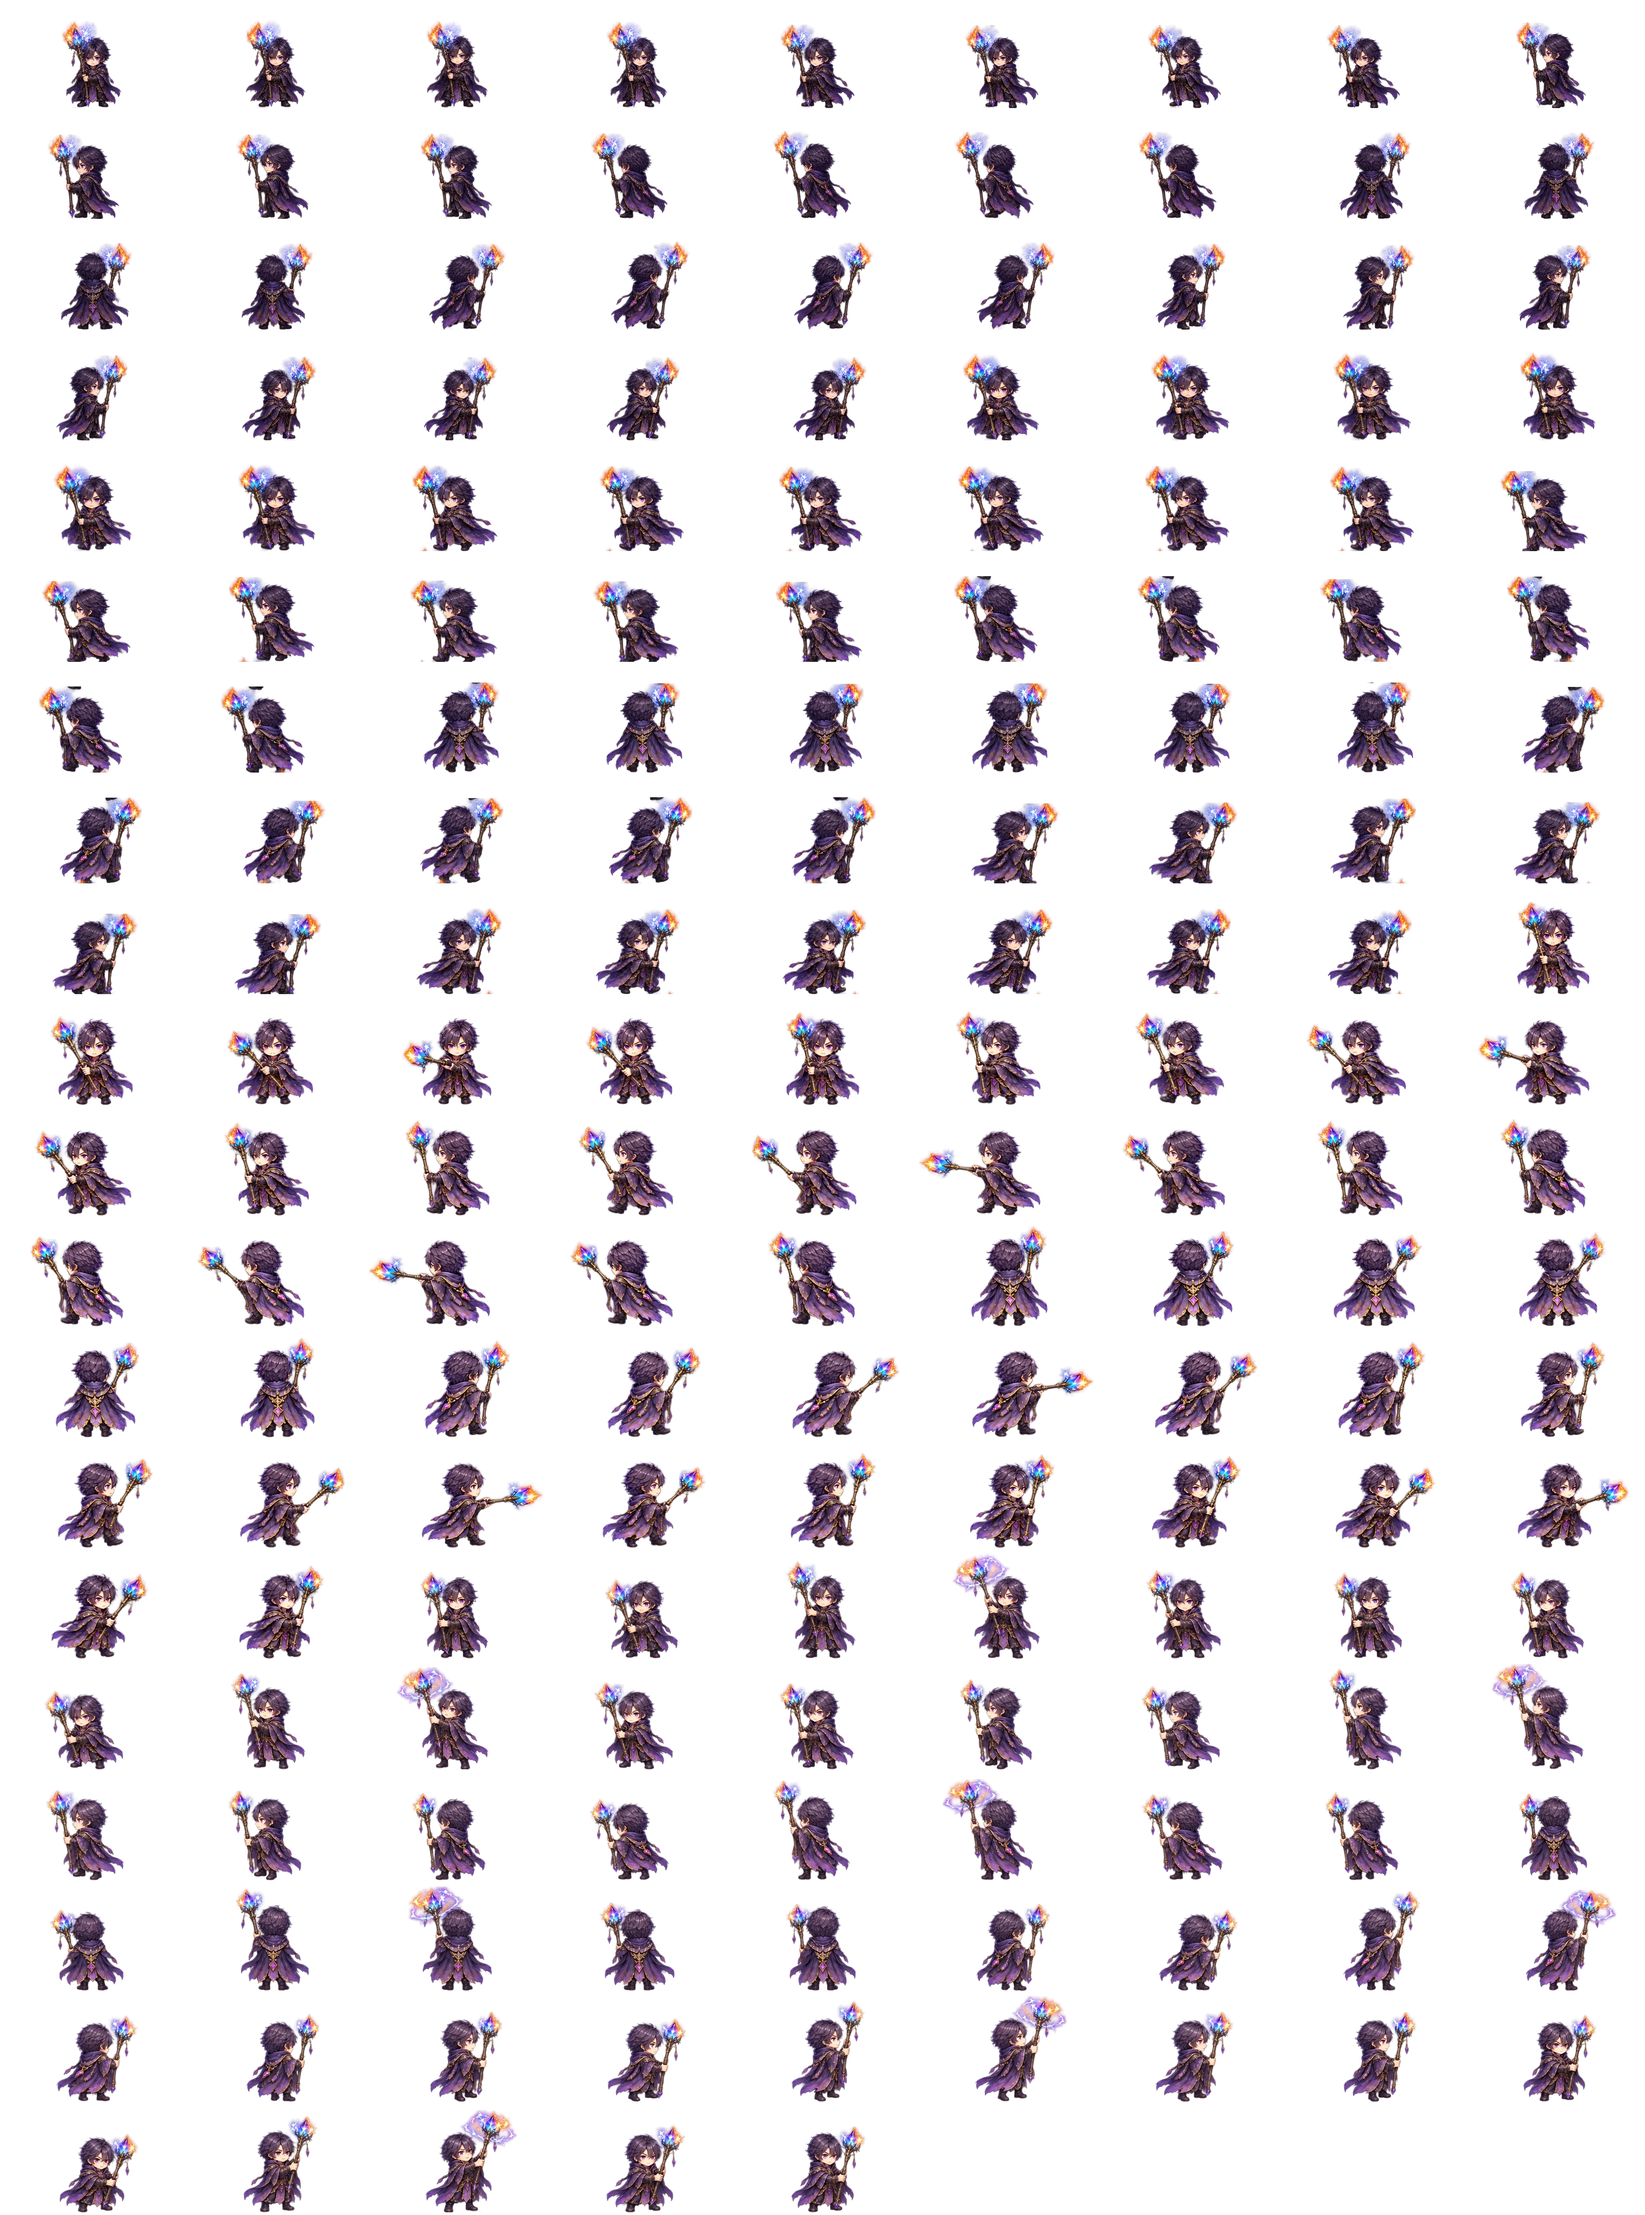
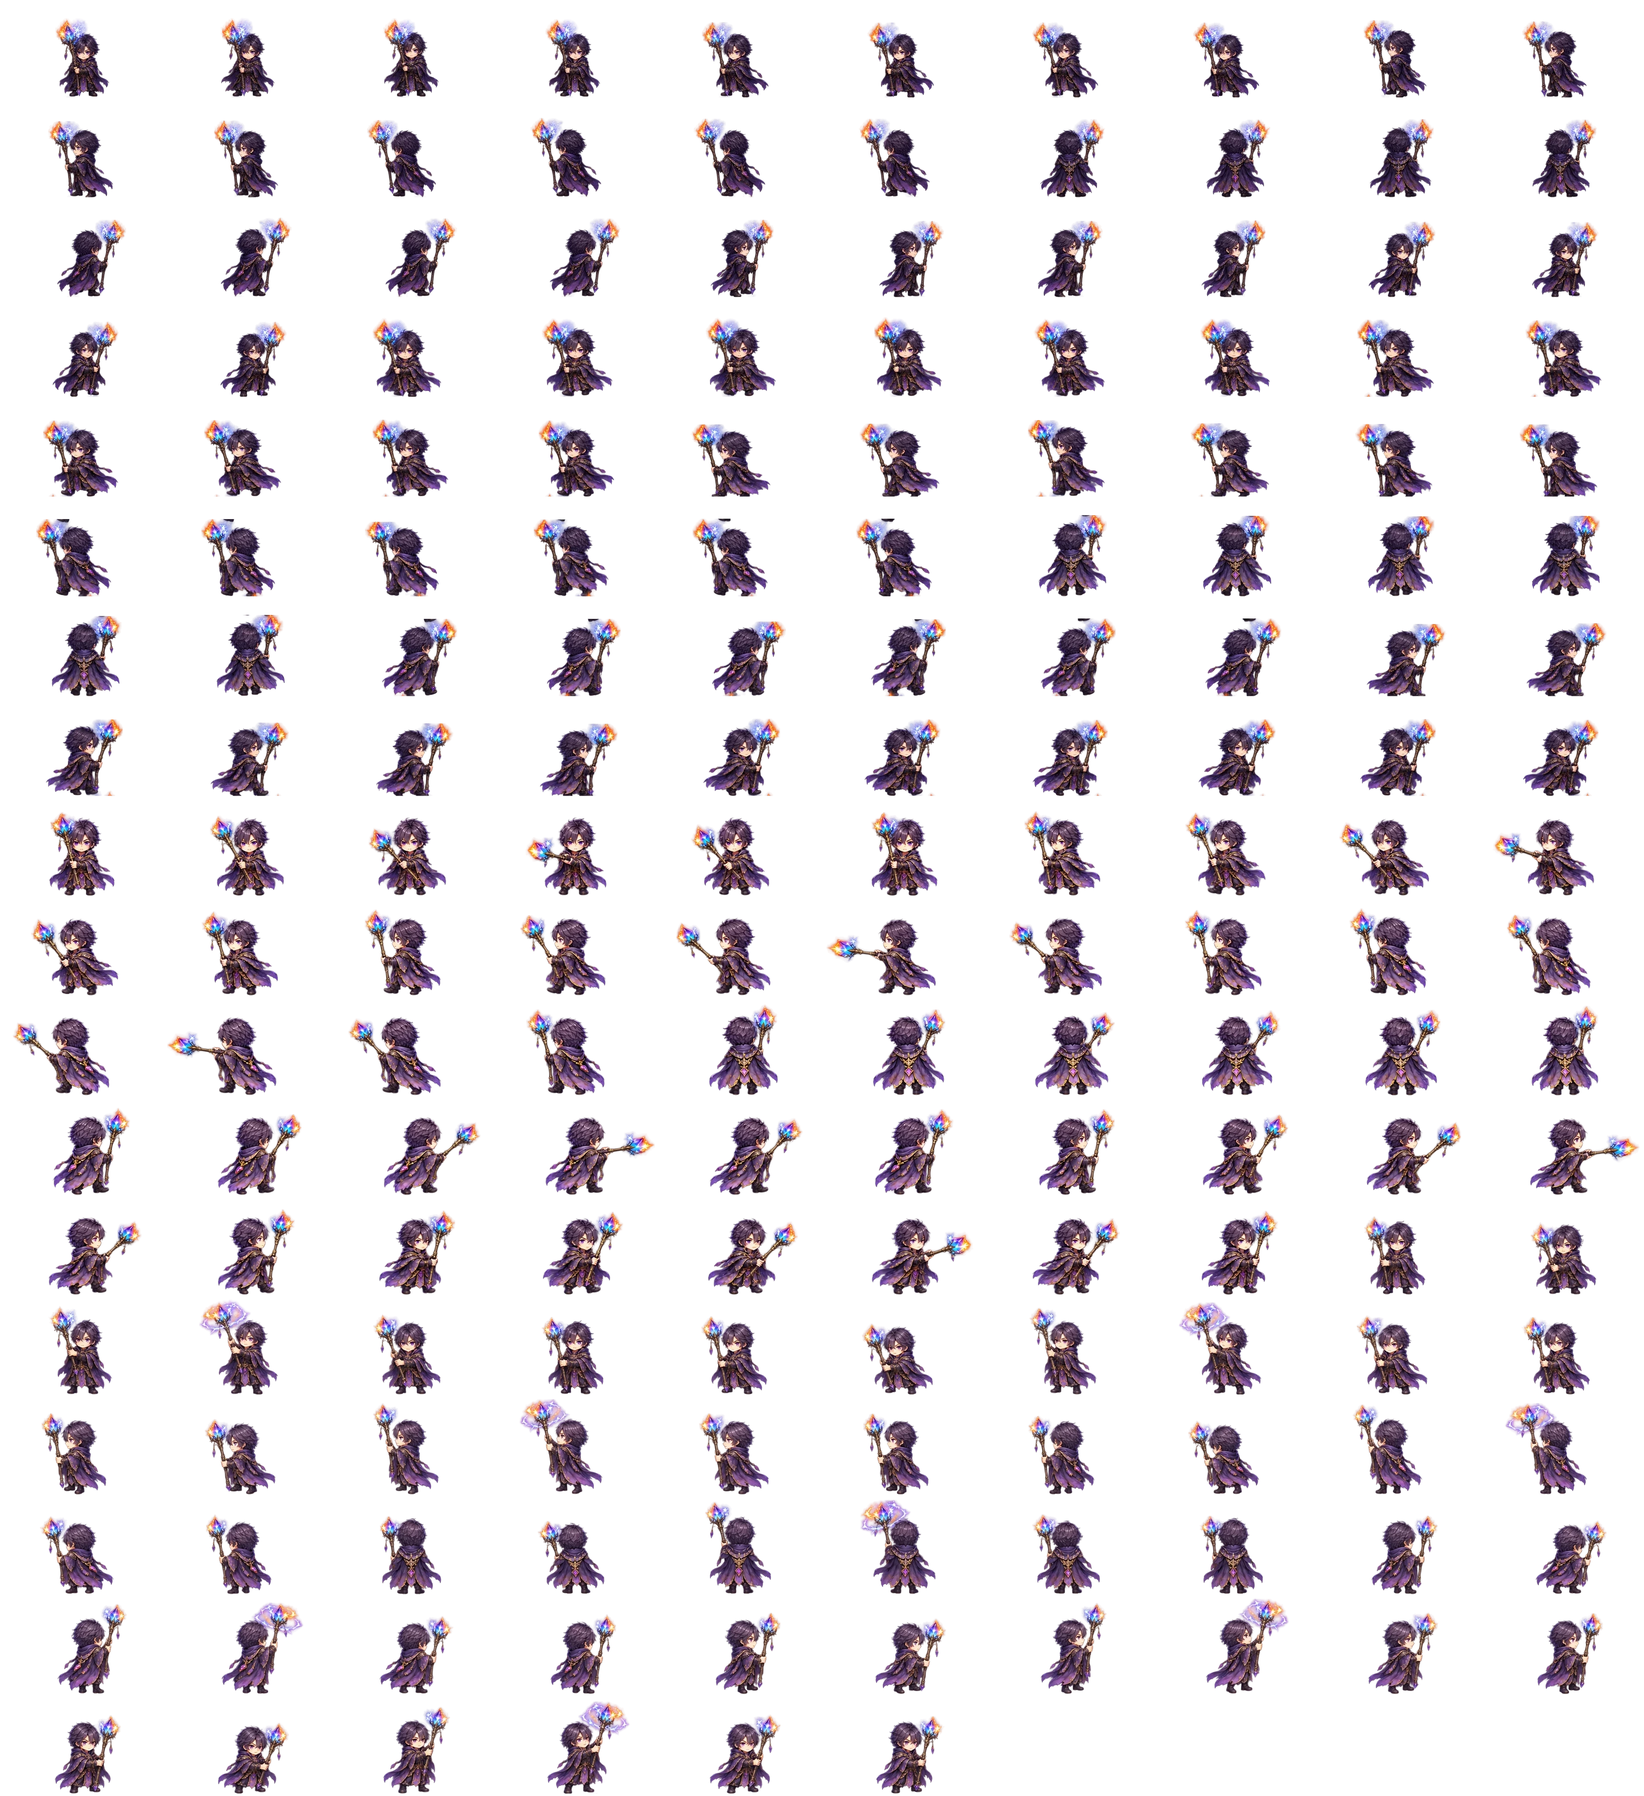
Hotbar keeps only the class's own skills; class sheets fit 4096 px
- R / T / X of a Rune Master showed Assassin skills: slots 4-6 (and 1-3) loaded from a save or carried over from a
  guest session of another class in the same browser were kept as-is. classExtraHotbar / classHotbar now replace every
  foreign or unknown id with the class default (save load and server character apply); test added
- 6 class sheets were taller than 4096 px (Berserker 7028): repacked with slightly smaller cells
  (scripts/sprites/fit_class_sheets.py) — no browser resize at first sight, ~25-40 % less GPU memory; ART_REV → d

Claude-Session: https://claude.ai/code/session_01NroGBoR4DbBAz4LWiULPaj

diff --git a/src/store/useGameStore.ts b/src/store/useGameStore.ts
@@ -164,6 +164,19 @@ export const EXTRA_SLOTS: Record<ClassId, (string | null)[]> = {
 };
 
 
+/** slots 4–6 may only hold this class's own active skills: a save (or a guest session in the same browser) of another
+ *  class left e.g. Assassin skills on a Rune Master's R / T / X — each foreign or unknown id falls back to the class default */
+export function classExtraHotbar(cls: ClassId, saved: unknown): (string | null)[] {
+  const defs = skillLib().defs, base = EXTRA_SLOTS[cls] ?? [null, null, null];
+  const list = Array.isArray(saved) && saved.length === 3 ? saved : base;
+  return list.map((id, i) => { const d = typeof id === 'string' ? defs.find(x => x.id === id) : undefined; return d && d.cls === cls && d.kind === 'active' && !d.evolvesFrom ? id as string : base[i] ?? null; });
+}
+/** slots 1–3 (skill / buff / special) likewise: a foreign or unknown id falls back to the class default */
+export function classHotbar(cls: ClassId, saved: unknown): Hotbar {
+  const defs = skillLib().defs, base = DEFAULT_HOTBAR[cls], src = (saved && typeof saved === 'object' ? saved : {}) as Record<string, unknown>;
+  const ok = (id: unknown) => typeof id === 'string' && defs.some(d => d.id === id && d.cls === cls && d.kind === 'active' && !d.evolvesFrom);
+  return { skill: ok(src.skill) ? src.skill as string : base.skill, buff: ok(src.buff) ? src.buff as string : base.buff, special: ok(src.special) ? src.special as string : base.special } as Hotbar;
+}
 function addLog(log: string[], line: string) { return [line, ...log].slice(0, 6); }
 export const expRequired = eco.expRequired;
 const MOTION_ACTION:Record<SkillDef['motion'],ActionId>={Attack:'attack',Skill:'skill',Buff:'buff',Special:'special'};
@@ -407,7 +420,7 @@ export const useGameStore = create<GameState>((set, get) => {
     const cls:ClassId=locked??(isClass(data.player.classId)?data.player.classId:'Berserker'); // round 20: the save's own class
     const lib=skillLib(),now=Date.now();
     const levels=Object.fromEntries(Object.entries(data.skills?.levels??{}).filter(([id,l])=>lib.defs.find(d=>d.id===id)?.cls===cls&&Number.isInteger(l)&&l>0));
-    const skills=Object.keys(levels).length?{skillLevels:levels,hotbar:{...DEFAULT_HOTBAR[cls],...(data.skills?.hotbar??{})} as Hotbar}:freshSkills(cls);
+    const skills=Object.keys(levels).length?{skillLevels:levels,hotbar:classHotbar(cls,data.skills?.hotbar)}:freshSkills(cls);
     const modern=(data.economyVersion??0)>=2;
     set({deadUntil:0,pending:null,selectedMonster:null,buffUntil:0,guardUntil:0,shield:{hp:0,until:0},dots:[],cooldowns:{},action:{kind:'idle',stamp:0,duration:0},monsters:cityMonsters(city),drops:[],
       player: {...data.player,name:locked?get().player.name:data.player.name,classId:cls,stats:classBase(cls),promotionId:validPromotion(cls,data.player.level,data.player.promotionId),cityId:city,position:safePosition(city,data.player.position),hp:Math.max(1,data.player.hp)},
@@ -415,7 +428,7 @@ export const useGameStore = create<GameState>((set, get) => {
       ...skills, buffs:(data.buffs??[]).filter(b=>b&&b.until>now), starterKits:Array.isArray(data.starterKits)?data.starterKits.filter(isClass):[], codex:cleanCodex(data.codex), wardrobe:cleanWardrobe(data.wardrobe),
       soulShards: data.soulShards, log: ['Save loaded successfully.'],
       quests:data.quests&&typeof data.quests==='object'?data.quests as QuestLog:{}, seenTips:Array.isArray(data.tips)?data.tips.filter(x=>typeof x==='string'):[],
-      auto:{...defaultAuto(cls),...(data.auto??{}),enabled:false} as AutoSettings, extraHotbar:Array.isArray(data.extraHotbar)&&data.extraHotbar.length===3?data.extraHotbar:[...EXTRA_SLOTS[cls]],
+      auto:{...defaultAuto(cls),...(data.auto??{}),enabled:false} as AutoSettings, extraHotbar:classExtraHotbar(cls,data.extraHotbar),
       bagPos:data.bagPos&&typeof data.bagPos==='object'?Object.fromEntries(Object.entries(data.bagPos).filter(([,v])=>v&&Number.isInteger(v.x)&&Number.isInteger(v.y))):{} });
     // items of the retired classes become Berserker gear (same tier, options and enhancement)
     const c=charOf(get()),m=eco.migrateCharState(c,lib);if(m!==c)set({player:m.player,inventory:m.inventory,equipment:m.equipment,drops:m.drops,skillLevels:m.skillLevels,hotbar:m.hotbar,log:['Save loaded · ไอเทมอาชีพเดิมถูกแปลงเป็นของ Berserker แล้ว']});
@@ -524,10 +537,10 @@ export function applyServerState(c: eco.CharState, opts: { first?: boolean; mess
   const levels = Object.fromEntries(Object.entries(c.skillLevels ?? {}).filter(([id, l]) => lib.defs.find(d => d.id === id)?.cls === cls && Number.isInteger(l) && l > 0));
   const player = { ...c.player, hp: s.player.hp, mp: s.player.mp, position: moved ? c.player.position : s.player.position };
   const next = { player, inventory: c.inventory, equipment: { ...EMPTY_GEAR, ...c.equipment }, soulShards: c.soulShards, skillLevels: Object.keys(levels).length ? levels : freshSkills(cls).skillLevels,
-    hotbar: { ...DEFAULT_HOTBAR[cls], ...c.hotbar } as Hotbar, buffs: c.buffs, starterKits: c.starterKits, quests: c.quests, drops: c.drops, codex: c.codex ?? {}, wardrobe: c.wardrobe ?? { owned: [], worn: {} } };
+    hotbar: classHotbar(cls, c.hotbar), buffs: c.buffs, starterKits: c.starterKits, quests: c.quests, drops: c.drops, codex: c.codex ?? {}, wardrobe: c.wardrobe ?? { owned: [], worn: {} } };
   const d = derivedOf({ ...next, player }), healed = opts.first || c.player.level > s.player.level;
   useGameStore.setState({ ...next, player: { ...player, hp: healed ? d.maxHp : Math.min(player.hp, d.maxHp), mp: healed ? d.maxMp : Math.min(player.mp, d.maxMp) },
     lockedClass: cls, ...(moved ? { monsters: cityMonsters(city), dots: [], selectedMonster: null, pending: null, npc: null, action: { kind: 'idle' as ActionId, stamp: 0, duration: 0 } } : {}),
-    ...(opts.first ? { deadUntil: 0, cooldowns: {}, journal: false, extraHotbar: s.extraHotbar, auto: { ...defaultAuto(cls), ...s.auto, enabled: false } } : {}),
+    ...(opts.first ? { deadUntil: 0, cooldowns: {}, journal: false, extraHotbar: classExtraHotbar(cls, s.extraHotbar), auto: { ...defaultAuto(cls), ...s.auto, enabled: false } } : {}),
     ...(opts.message ? { log: addLog(s.log, opts.message) } : {}) });
 }

diff --git a/src/game/sprites/classAnims.ts b/src/game/sprites/classAnims.ts
@@ -4,13 +4,13 @@ import type { SpriteAnim } from './anims';
 import type { SpriteFrame } from './frames';
 export const CLASS_ANIMS: Record<string, SpriteAnim> = {
  "m-Paladin": {
-  "cw": 388,
-  "ch": 247,
-  "cols": 10,
+  "cw": 341,
+  "ch": 217,
+  "cols": 12,
   "n": 208,
   "fx": 0.5,
   "fy": 0.0243,
-  "bodyPx": 200,
+  "bodyPx": 175.71,
   "clips": {
    "idle": [
     0,
@@ -64,13 +64,13 @@ export const CLASS_ANIMS: Record<string, SpriteAnim> = {
   "dirs": 8
  },
  "m-RuneMaster": {
-  "cw": 490,
-  "ch": 233,
-  "cols": 8,
+  "cw": 429,
+  "ch": 204,
+  "cols": 9,
   "n": 176,
   "fx": 0.5,
   "fy": 0.0258,
-  "bodyPx": 200,
+  "bodyPx": 175.11,
   "clips": {
    "idle": [
     0,
@@ -92,13 +92,13 @@ export const CLASS_ANIMS: Record<string, SpriteAnim> = {
   "dirs": 8
  },
  "m-Elementalist": {
-  "cw": 416,
-  "ch": 252,
-  "cols": 9,
+  "cw": 374,
+  "ch": 227,
+  "cols": 10,
   "n": 176,
   "fx": 0.5,
   "fy": 0.0238,
-  "bodyPx": 200,
+  "bodyPx": 180.16,
   "clips": {
    "idle": [
     0,
@@ -148,13 +148,13 @@ export const CLASS_ANIMS: Record<string, SpriteAnim> = {
   "dirs": 8
  },
  "m-HighPriest": {
-  "cw": 476,
-  "ch": 232,
-  "cols": 8,
+  "cw": 419,
+  "ch": 204,
+  "cols": 9,
   "n": 176,
   "fx": 0.5,
   "fy": 0.0259,
-  "bodyPx": 200,
+  "bodyPx": 175.86,
   "clips": {
    "idle": [
     0,
@@ -176,13 +176,13 @@ export const CLASS_ANIMS: Record<string, SpriteAnim> = {
   "dirs": 8
  },
  "m-Inquisitor": {
-  "cw": 336,
-  "ch": 281,
+  "cw": 326,
+  "ch": 273,
   "cols": 12,
   "n": 176,
   "fx": 0.5,
   "fy": 0.0214,
-  "bodyPx": 200,
+  "bodyPx": 194.31,
   "clips": {
    "idle": [
     0,
@@ -204,13 +204,13 @@ export const CLASS_ANIMS: Record<string, SpriteAnim> = {
   "dirs": 8
  },
  "m-Berserker": {
-  "cw": 426,
-  "ch": 251,
-  "cols": 9,
+  "cw": 330,
+  "ch": 195,
+  "cols": 12,
   "n": 248,
   "fx": 0.5,
   "fy": 0.0239,
-  "bodyPx": 200,
+  "bodyPx": 155.38,
   "clips": {
    "idle": [
     0,
@@ -247,8 +247,8 @@ export const CLASS_FRAMES: Record<string, SpriteFrame> = {
   "fx": 0.4197,
   "fy": 0.0243,
   "px": [
-   193,
-   247
+   170,
+   217
   ]
  },
  "m-Hawkeye": {
@@ -267,8 +267,8 @@ export const CLASS_FRAMES: Record<string, SpriteFrame> = {
   "fx": 0.6068,
   "fy": 0.0258,
   "px": [
-   206,
-   233
+   180,
+   204
   ]
  },
  "m-Elementalist": {
@@ -277,8 +277,8 @@ export const CLASS_FRAMES: Record<string, SpriteFrame> = {
   "fx": 0.5,
   "fy": 0.0238,
   "px": [
-   136,
-   252
+   122,
+   227
   ]
  },
  "m-Assassin": {
@@ -297,8 +297,8 @@ export const CLASS_FRAMES: Record<string, SpriteFrame> = {
   "fx": 0.5101,
   "fy": 0.0259,
   "px": [
-   149,
-   232
+   131,
+   204
   ]
  },
  "m-Inquisitor": {
@@ -307,8 +307,8 @@ export const CLASS_FRAMES: Record<string, SpriteFrame> = {
   "fx": 0.546,
   "fy": 0.0214,
   "px": [
-   174,
-   281
+   169,
+   273
   ]
  },
  "m-Berserker": {
@@ -317,8 +317,8 @@ export const CLASS_FRAMES: Record<string, SpriteFrame> = {
   "fx": 0.4781,
   "fy": 0.0239,
   "px": [
-   228,
-   251
+   177,
+   195
   ]
  }
 };

diff --git a/tests/hud-player-static.test.ts b/tests/hud-player-static.test.ts
@@ -16,3 +16,10 @@ test('actors stand on the field floor (0.115 m) in fields and on 0 in capitals',
   assert.equal(groundY('hollow'), 0);
   assert.ok(groundY('wild0') >= 0.115 && groundY('wild0') < 0.2);
 });
+
+test('a Rune Master never keeps another class on the hotbar (R / T / X showed Assassin skills)', async () => {
+  const { classExtraHotbar, classHotbar, EXTRA_SLOTS } = await import('../src/store/useGameStore');
+  assert.deepEqual(classExtraHotbar('RuneMaster', ['s-fan-of-blades', 's-cripple', 's-death-lotus']), EXTRA_SLOTS.RuneMaster);
+  assert.deepEqual(classExtraHotbar('RuneMaster', ['r2-ruin-pillar', null, 'nope']), ['r2-ruin-pillar', EXTRA_SLOTS.RuneMaster[1], EXTRA_SLOTS.RuneMaster[2]]);
+  assert.equal(classHotbar('RuneMaster', { skill: 's-twin-fang' }).skill.startsWith('r2-'), true);
+});

diff --git a/src/game/artVersion.ts b/src/game/artVersion.ts
@@ -1,5 +1,5 @@
 /** Painted sheets are served with a 7-day browser cache under the same file names, so a repainted or cleaned sheet would
  *  keep showing the old picture for a week. Bump ART_REV whenever files in public/art/anim or public/art/fx change:
  *  the new query string makes every browser fetch the new files once. */
-export const ART_REV = '20261111c';
+export const ART_REV = '20261111d';
 export const artUrl = (path: string) => `${path}?v=${ART_REV}`;

diff --git a/scripts/sprites/fit_class_sheets.py b/scripts/sprites/fit_class_sheets.py
@@ -1,0 +1,41 @@
+"""Repack the 8 class flipbooks so every sheet fits a 4096 x 4096 texture (most phones' limit; larger sheets were being
+resized by the browser on the main thread at first sight — a visible hitch — and took 60-100 MB of GPU memory each).
+
+Frames keep their order; the cell is scaled down just enough that ceil(n / cols) rows fit, then the grid is rewritten.
+cw / ch / cols, bodyPx and CLASS_FRAMES.px in src/game/sprites/classAnims.ts are updated to match (fx / fy are fractions).
+usage: python3 scripts/sprites/fit_class_sheets.py
+"""
+import json, math, re
+from PIL import Image
+
+P = 'src/game/sprites/classAnims.ts'
+src = open(P).read()
+def block(name):
+    a = src.index(f'export const {name}'); b = src.index('{', a); depth = 0
+    for i in range(b, len(src)):
+        depth += src[i] == '{'; depth -= src[i] == '}'
+        if depth == 0: return b, i + 1
+anims_span, frames_span = block('CLASS_ANIMS'), block('CLASS_FRAMES')
+anims, frames = json.loads(src[slice(*anims_span)]), json.loads(src[slice(*frames_span)])
+LIMIT = 4096
+for key, a in anims.items():
+    path = f'public/art/anim/{key}.webp'; im = Image.open(path).convert('RGBA')
+    cw, ch, cols, n = a['cw'], a['ch'], a['cols'], a['n']
+    if cols * cw <= LIMIT and math.ceil(n / cols) * ch <= LIMIT: print(key, 'fits'); continue
+    s = 1.0
+    while True:
+        ncw, nch = round(cw * s), round(ch * s); ncols = LIMIT // ncw; rows = math.ceil(n / ncols)
+        if rows * nch <= LIMIT and ncols * ncw <= LIMIT: break
+        s -= 0.005
+    out = Image.new('RGBA', (ncols * ncw, rows * nch), (0, 0, 0, 0))
+    for i in range(n):
+        x, y = (i % cols) * cw, (i // cols) * ch
+        cell = im.crop((x, y, x + cw, y + ch)).resize((ncw, nch), Image.LANCZOS)
+        out.paste(cell, ((i % ncols) * ncw, (i // ncols) * nch))
+    out.save(path, 'WEBP', quality=92, alpha_quality=100, method=4)
+    sy = nch / ch
+    a.update(cw=ncw, ch=nch, cols=ncols, bodyPx=round(a['bodyPx'] * sy, 2))
+    if key in frames: frames[key]['px'] = [round(frames[key]['px'][0] * ncw / cw), round(frames[key]['px'][1] * sy)]
+    print(key, (im.width, im.height), '->', out.size, 'scale %.3f' % sy)
+new = src[:anims_span[0]] + json.dumps(anims, indent=1) + src[anims_span[1]:frames_span[0]] + json.dumps(frames, indent=1) + src[frames_span[1]:]
+open(P, 'w').write(new)
